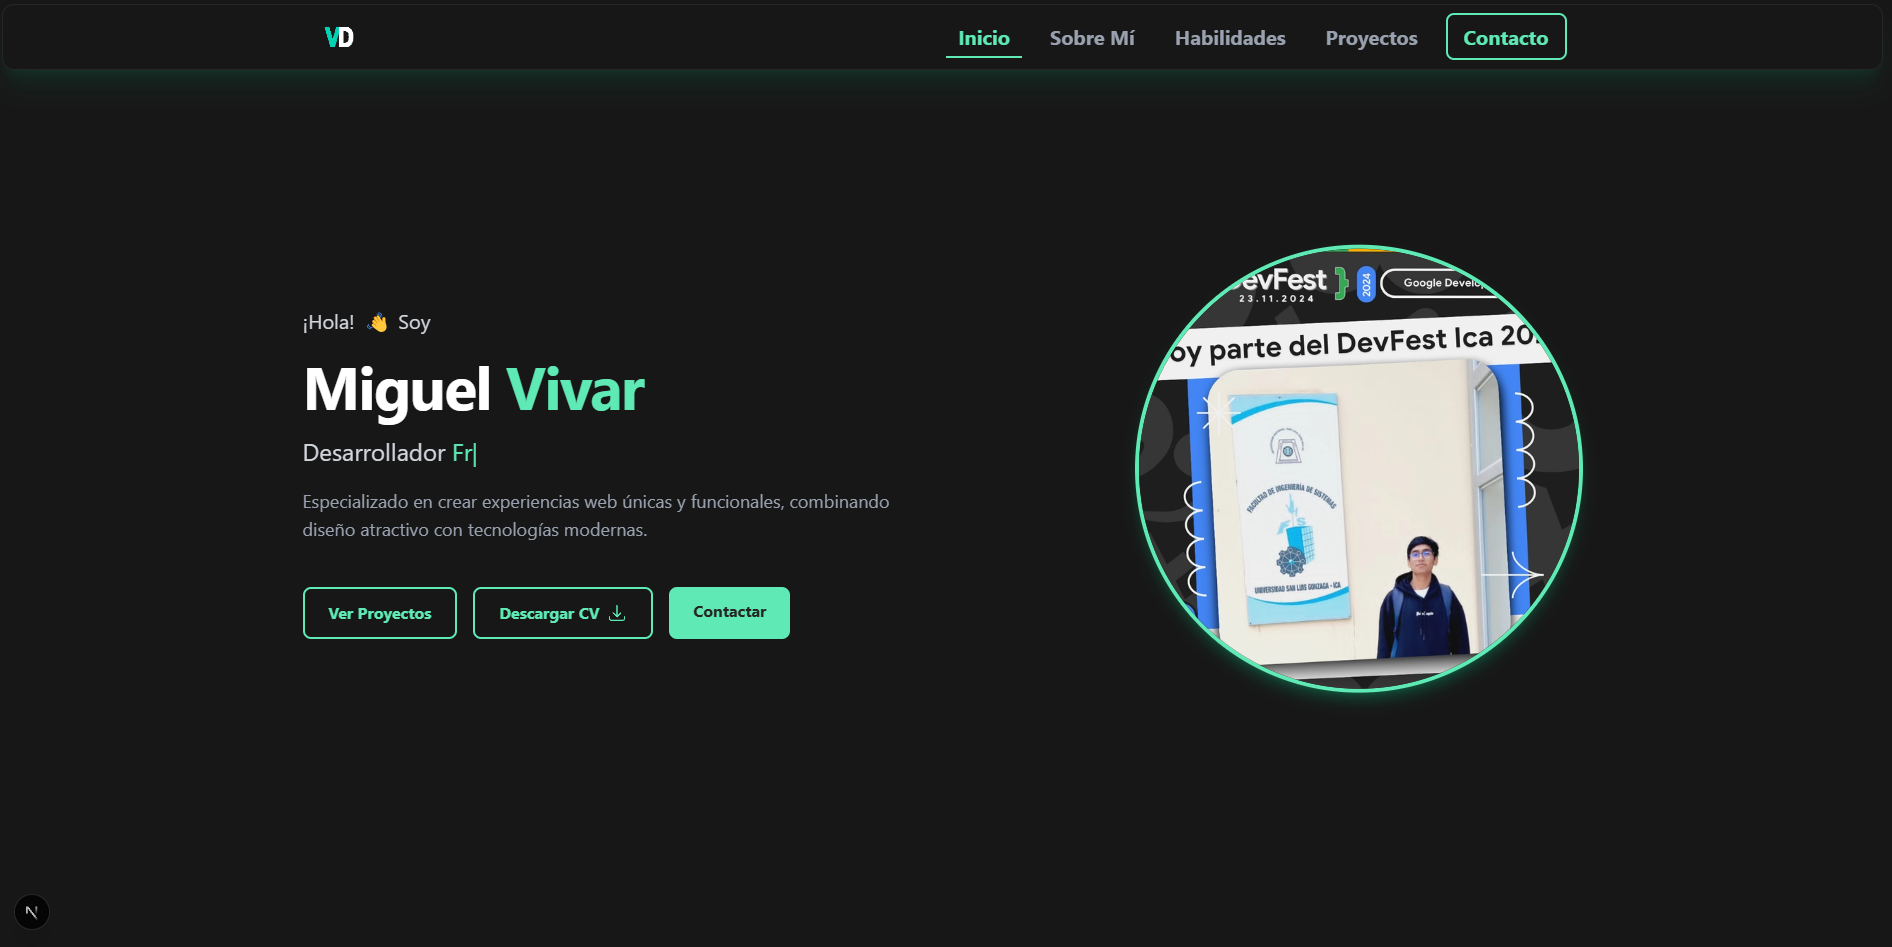
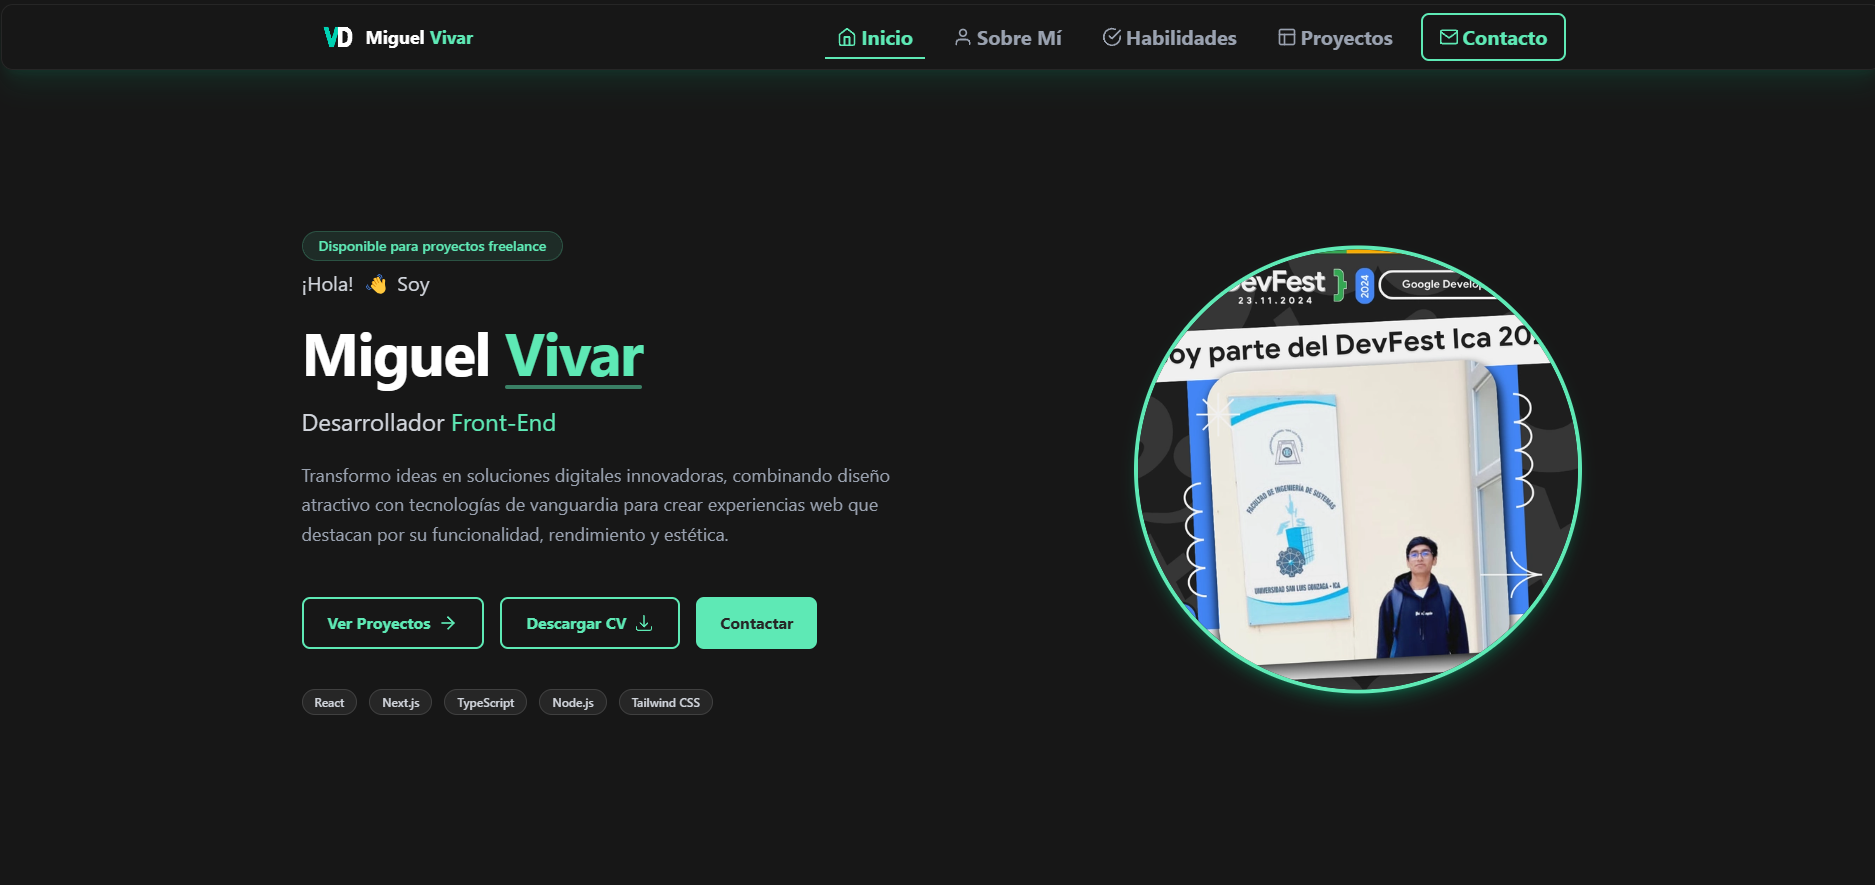
Mejora iconos

diff --git a/src/app/sobremi/page.tsx b/src/app/sobremi/page.tsx
@@ -453,7 +453,7 @@ export default function SobreMi() {
         <motion.div
           initial={{ opacity: 0, y: 30 }}
           animate={{ opacity: 1, y: 0 }}
-          transition={{ duration: 0.8, delay: 0.7 }}
+          transition={{ duration: 0.8, delay: 0.1 }}
           className="mb-16"
         >
           <h2 className="text-3xl font-bold text-white mb-8 text-center">
@@ -465,44 +465,15 @@ export default function SobreMi() {
                 key={index}
                 initial={{ opacity: 0, y: 20 }}
                 animate={{ opacity: 1, y: 0 }}
-                transition={{ duration: 0.5, delay: 0.7 + (index * 0.1) }}
+                transition={{ duration: 0.1, delay: 0.1 }}
                 whileHover={{ 
                   y: -10,
                   boxShadow: "0 20px 25px -5px rgba(16, 185, 129, 0.1), 0 10px 10px -5px rgba(16, 185, 129, 0.04)"
                 }}
-                className="bg-neutral-800 p-6 rounded-lg border-t-2 border-emerald-300 transition-all duration-300 flex flex-col items-center text-center"
+                className="bg-neutral-800 p-6 rounded-lg border-t-2 border-emerald-300 transition-all flex flex-col items-center text-center"
               >
                 <div className="w-16 h-16 bg-emerald-300/10 rounded-full flex items-center justify-center mb-4 text-emerald-300">
-                  {index === 0 && (
-                    <svg xmlns="http://www.w3.org/2000/svg" className="h-8 w-8" fill="none" viewBox="0 0 24 24" stroke="currentColor">
-                      <path strokeLinecap="round" strokeLinejoin="round" strokeWidth={2} d="M9 12l2 2 4-4m5.618-4.016A11.955 11.955 0 0112 2.944a11.955 11.955 0 01-8.618 3.04A12.02 12.02 0 003 9c0 5.591 3.824 10.29 9 11.622 5.176-1.332 9-6.03 9-11.622 0-1.042-.133-2.052-.382-3.016z" />
-                    </svg>
-                  )}
-                  {index === 1 && (
-                    <svg xmlns="http://www.w3.org/2000/svg" className="h-8 w-8" fill="none" viewBox="0 0 24 24" stroke="currentColor">
-                      <path strokeLinecap="round" strokeLinejoin="round" strokeWidth={2} d="M13 10V3L4 14h7v7l9-11h-7z" />
-                    </svg>
-                  )}
-                  {index === 2 && (
-                    <svg xmlns="http://www.w3.org/2000/svg" className="h-8 w-8" fill="none" viewBox="0 0 24 24" stroke="currentColor">
-                      <path strokeLinecap="round" strokeLinejoin="round" strokeWidth={2} d="M17 20h5v-2a3 3 0 00-5.356-1.857M17 20H7m10 0v-2c0-.656-.126-1.283-.356-1.857M7 20H2v-2a3 3 0 015.356-1.857M7 20v-2c0-.656.126-1.283.356-1.857m0 0a5.002 5.002 0 019.288 0M15 7a3 3 0 11-6 0 3 3 0 016 0zm6 3a2 2 0 11-4 0 2 2 0 014 0zM7 10a2 2 0 11-4 0 2 2 0 014 0z" />
-                    </svg>
-                  )}
-                  {index === 3 && (
-                    <svg xmlns="http://www.w3.org/2000/svg" className="h-8 w-8" fill="none" viewBox="0 0 24 24" stroke="currentColor">
-                      <path strokeLinecap="round" strokeLinejoin="round" strokeWidth={2} d="M9.663 17h4.673M12 3v1m6.364 1.636l-.707.707M21 12h-1M4 12H3m3.343-5.657l-.707-.707m2.828 9.9a5 5 0 117.072 0l-.548.547A3.374 3.374 0 0014 18.469V19a2 2 0 11-4 0v-.531c0-.895-.356-1.754-.988-2.386l-.548-.547z" />
-                    </svg>
-                  )}
-                  {index === 4 && (
-                    <svg xmlns="http://www.w3.org/2000/svg" className="h-8 w-8" fill="none" viewBox="0 0 24 24" stroke="currentColor">
-                      <path strokeLinecap="round" strokeLinejoin="round" strokeWidth={2} d="M12 8v4l3 3m6-3a9 9 0 11-18 0 9 9 0 0118 0z" />
-                    </svg>
-                  )}
-                  {index === 5 && (
-                    <svg xmlns="http://www.w3.org/2000/svg" className="h-8 w-8" fill="none" viewBox="0 0 24 24" stroke="currentColor">
-                      <path strokeLinecap="round" strokeLinejoin="round" strokeWidth={2} d="M14.828 14.828a4 4 0 01-5.656 0M9 10h.01M15 10h.01M21 12a9 9 0 11-18 0 9 9 0 0118 0z" />
-                    </svg>
-                  )}
+                  {valor.icono}
                 </div>
                 
                 <h3 className="text-xl font-bold text-white mb-3">{valor.titulo}</h3>

diff --git a/src/data/valores.tsx b/src/data/valores.tsx
@@ -3,26 +3,32 @@
 export const valores = [
   {
     titulo: "Innovación",
-    descripcion: "Busco constantemente nuevas formas de resolver problemas y mejorar procesos."
+    descripcion: "Busco constantemente nuevas formas de resolver problemas y mejorar procesos.",
+    icono: <svg xmlns="http://www.w3.org/2000/svg" className="h-8 w-8" fill="none" viewBox="0 0 24 24" stroke="currentColor"><path strokeLinecap="round" strokeLinejoin="round" strokeWidth={2} d="M9.663 17h4.673M12 3v1m6.364 1.636l-.707.707M21 12h-1M4 12H3m3.343-5.657l-.707-.707m2.828 9.9a5 5 0 117.072 0l-.548.547A3.374 3.374 0 0014 18.469V19a2 2 0 11-4 0v-.531c0-.895-.356-1.754-.988-2.386l-.548-.547z" /></svg>
   },
   {
     titulo: "Calidad",
-    descripcion: "Me comprometo a entregar código limpio, eficiente y bien documentado."
+    descripcion: "Me comprometo a entregar código limpio, eficiente y bien documentado.",
+    icono: <svg xmlns="http://www.w3.org/2000/svg" className="h-8 w-8" fill="none" viewBox="0 0 24 24" stroke="currentColor"><path strokeLinecap="round" strokeLinejoin="round" strokeWidth={2} d="M13 10V3L4 14h7v7l9-11h-7z" /></svg>
   },
   {
     titulo: "Aprendizaje Continuo",
-    descripcion: "Me mantengo actualizado con las últimas tecnologías y mejores prácticas."
+    descripcion: "Me mantengo actualizado con las últimas tecnologías y mejores prácticas.",
+    icono: <svg xmlns="http://www.w3.org/2000/svg" className="h-8 w-8" fill="none" viewBox="0 0 24 24" stroke="currentColor"><path strokeLinecap="round" strokeLinejoin="round" strokeWidth={2} d="M12 8v4l3 3m6-3a9 9 0 11-18 0 9 9 0 0118 0z" /></svg>
   },
   {
     titulo: "Colaboración",
-    descripcion: "Creo en el poder del trabajo en equipo para lograr resultados excepcionales."
+    descripcion: "Creo en el poder del trabajo en equipo para lograr resultados excepcionales.",
+    icono: <svg xmlns="http://www.w3.org/2000/svg" className="h-8 w-8" fill="none" viewBox="0 0 24 24" stroke="currentColor"><path strokeLinecap="round" strokeLinejoin="round" strokeWidth={2} d="M17 20h5v-2a3 3 0 00-5.356-1.857M17 20H7m10 0v-2c0-.656-.126-1.283-.356-1.857M7 20H2v-2a3 3 0 015.356-1.857M7 20v-2c0-.656.126-1.283.356-1.857m0 0a5.002 5.002 0 019.288 0M15 7a3 3 0 11-6 0 3 3 0 016 0zm6 3a2 2 0 11-4 0 2 2 0 014 0zM7 10a2 2 0 11-4 0 2 2 0 014 0z" /></svg>
   },
   {
     titulo: "Responsabilidad",
-    descripcion: "Cumplo con los plazos y asumo la responsabilidad de mi trabajo."
+    descripcion: "Cumplo con los plazos y asumo la responsabilidad de mi trabajo.",
+    icono: <svg xmlns="http://www.w3.org/2000/svg" className="h-8 w-8" fill="none" viewBox="0 0 24 24" stroke="currentColor"><path strokeLinecap="round" strokeLinejoin="round" strokeWidth={2} d="M9 12l2 2 4-4m5.618-4.016A11.955 11.955 0 0112 2.944a11.955 11.955 0 01-8.618 3.04A12.02 12.02 0 003 9c0 5.591 3.824 10.29 9 11.622 5.176-1.332 9-6.03 9-11.622 0-1.042-.133-2.052-.382-3.016z" /></svg>
   },
   {
     titulo: "Empatía",
-    descripcion: "Entiendo las necesidades de los usuarios y clientes para crear mejores soluciones."
+    descripcion: "Entiendo las necesidades de los usuarios y clientes para crear mejores soluciones.",
+    icono: <svg xmlns="http://www.w3.org/2000/svg" className="h-8 w-8" fill="none" viewBox="0 0 24 24" stroke="currentColor"><path strokeLinecap="round" strokeLinejoin="round" strokeWidth={2} d="M14.828 14.828a4 4 0 01-5.656 0M9 10h.01M15 10h.01M21 12a9 9 0 11-18 0 9 9 0 0118 0z" /></svg>
   }
 ];

diff --git a/src/data/habilidades.tsx b/src/data/habilidades.tsx
@@ -1,7 +1,7 @@
-import { FaHtml5, FaCss3, FaSass, FaBootstrap, FaReact, FaNodeJs, FaGithub, FaFigma, FaJava, FaPython, FaLaptopCode, FaServer, FaCode, FaTools, FaLayerGroup } from 'react-icons/fa';
+import { FaHtml5, FaCss3, FaSass, FaBootstrap, FaReact, FaNodeJs, FaGithub, FaFigma, FaJava, FaPython, FaLaptopCode, FaServer, FaCode, FaTools, FaLayerGroup, FaPhp } from 'react-icons/fa';
 import { TbBrandCSharp } from "react-icons/tb";
-import { SiJavascript, SiNextdotjs, SiTailwindcss, SiTypescript, SiFramer, SiExpress, SiMongodb, SiJest, SiBulma, SiVite, SiGit, SiCypress, SiPostman } from 'react-icons/si';
-import { BsKanban, BsSearch } from 'react-icons/bs';
+import { SiJavascript, SiNextdotjs, SiTailwindcss, SiTypescript, SiFramer, SiExpress, SiMongodb, SiJest, SiBulma, SiVite, SiGit, SiCypress, SiPostman, SiMysql, SiPostgresql } from 'react-icons/si';
+import { BsKanban, BsSearch, BsServer } from 'react-icons/bs';
 import { MdOutlineDesignServices, MdDevices } from 'react-icons/md';
 import { AiOutlineApartment } from 'react-icons/ai';
 
@@ -29,9 +29,17 @@ export const categoriasHabilidades = [
     icono: <FaServer className="text-emerald-300 text-2xl" />,
     habilidades: [
       { nombre: "Node.js", nivel: "Avanzado", icono: <FaNodeJs className="text-2xl" /> },
-      { nombre: "Express", nivel: "Avanzado", icono: <SiExpress className="text-2xl" /> },
+      { nombre: "Express", nivel: "Avanzado", icono: <SiExpress className="text-2xl" /> }
+    ],
+  },
+  {
+    titulo: "Bases de Datos",
+    icono: <AiOutlineApartment className="text-emerald-300 text-2xl" />,
+    habilidades: [
       { nombre: "MongoDB", nivel: "Intermedio", icono: <SiMongodb className="text-2xl" /> },
-      { nombre: "SQL", nivel: "Intermedio", icono: <AiOutlineApartment className="text-2xl" /> }
+      { nombre: "MySQL", nivel: "Intermedio", icono: <SiMysql className="text-2xl" /> },
+      { nombre: "SQLServer", nivel: "Intermedio", icono: <BsServer className="text-2xl" /> },
+      { nombre: "PostgreSQL", nivel: "Intermedio", icono: <SiPostgresql className="text-2xl" /> }
     ],
   },
   {
@@ -40,6 +48,7 @@ export const categoriasHabilidades = [
     habilidades: [
       { nombre: "Python", nivel: "Intermedio", icono: <FaPython className="text-2xl" /> },
       { nombre: "Java", nivel: "Intermedio", icono: <FaJava className="text-2xl" /> },
+      { nombre: "PHP", nivel: "Intermedio", icono: <FaPhp className="text-2xl" /> },
       { nombre: "C#", nivel: "Intermedio", icono: <TbBrandCSharp className="text-2xl" /> }
     ],
   },
@@ -50,9 +59,9 @@ export const categoriasHabilidades = [
       { nombre: "Git", nivel: "Avanzado", icono: <SiGit className="text-2xl" /> },
       { nombre: "GitHub", nivel: "Avanzado", icono: <FaGithub className="text-2xl" /> },
       { nombre: "Figma", nivel: "Intermedio", icono: <FaFigma className="text-2xl" /> },
-      { nombre: "Jest", nivel: "Intermedio", icono: <SiJest className="text-2xl" /> },
-      { nombre: "Cypress", nivel: "Intermedio", icono: <SiCypress className="text-2xl" /> },
-      { nombre: "Postman", nivel: "Intermedio", icono: <SiPostman className="text-2xl" /> }
+      { nombre: "Postman", nivel: "Intermedio", icono: <SiPostman className="text-2xl" /> },
+      { nombre: "Jest", nivel: "Básico", icono: <SiJest className="text-2xl" /> },
+      { nombre: "Cypress", nivel: "Básico", icono: <SiCypress className="text-2xl" /> }
     ],
   },
   {

diff --git a/src/data/proyectos.tsx b/src/data/proyectos.tsx
@@ -1,4 +1,4 @@
-import { FaJava, FaCode, FaLayerGroup, FaDesktop, FaServer } from 'react-icons/fa';
+import { FaJava, FaCode, FaLayerGroup, FaDesktop, FaServer, FaSearch } from 'react-icons/fa';
 import { SiReact, SiNextdotjs, SiTailwindcss, SiFramer, SiNodedotjs, SiExpress, SiMongodb, SiJsonwebtokens, SiPug, SiBootstrap, SiMysql, SiHeroku, SiChatbot, SiVite } from 'react-icons/si';
 
 export const proyectos = [
@@ -150,7 +150,7 @@ export const proyectos = [
 
 // Categorías para el filtro
 export const categorias = [
-  { id: 'todos', nombre: 'Todos', icono: <FaCode className="text-xl" /> },
+  { id: 'todos', nombre: 'Todos', icono: <FaSearch className="text-xl" /> },
   { id: 'Full-Stack', nombre: 'Full-Stack', icono: <FaLayerGroup className="text-xl" /> },
   { id: 'Front-End', nombre: 'Front-End', icono: <FaDesktop className="text-xl" /> },
   { id: 'Back-End', nombre: 'Back-End', icono: <FaServer className="text-xl" /> },

diff --git a/README.md b/README.md
@@ -1,86 +1,145 @@
 # Miguel Vivar - Portfolio Personal
 
+<div align="center">
+
 ![Portfolio Preview](/public/portafolio.png)
+
+[![Next.js](https://img.shields.io/badge/Next.js-15-black?style=for-the-badge&logo=next.js)](https://nextjs.org/)
+[![React](https://img.shields.io/badge/React-19-blue?style=for-the-badge&logo=react)](https://reactjs.org/)
+[![TypeScript](https://img.shields.io/badge/TypeScript-5-blue?style=for-the-badge&logo=typescript)](https://www.typescriptlang.org/)
+[![Tailwind CSS](https://img.shields.io/badge/Tailwind-4-38B2AC?style=for-the-badge&logo=tailwind-css)](https://tailwindcss.com/)
+[![Framer Motion](https://img.shields.io/badge/Framer_Motion-12-0055FF?style=for-the-badge&logo=framer)](https://www.framer.com/motion/)
+
+</div>
 
 ## 📋 Descripción
 
-Este es mi portafolio personal desarrollado con tecnologías modernas para mostrar mis proyectos, habilidades y experiencia como desarrollador web. El sitio cuenta con animaciones fluidas, diseño responsivo y una interfaz de usuario atractiva.
+Este es mi portafolio personal desarrollado con tecnologías modernas para mostrar mis proyectos, habilidades y experiencia como desarrollador web. El sitio cuenta con animaciones fluidas, diseño responsivo y una interfaz de usuario atractiva que refleja mi estilo y profesionalismo.
 
-## ✨ Características
+## 🌐 Demostración
 
-- **Diseño Moderno y Responsivo**: Adaptado a todo tipo de dispositivos
-- **Animaciones Fluidas**: Implementadas con Framer Motion
-- **Secciones Completas**: Proyectos, Habilidades, Sobre Mí y Contacto
-- **Modo Oscuro**: Interfaz elegante con tema oscuro y acentos en color esmeralda
-- **Formulario de Contacto**: Para recibir mensajes directamente
-- **Enlaces a Redes Sociales**: Conexión con mis perfiles profesionales
+Visita mi portfolio en vivo: [miguelvivar.github.io](https://miguelvivar.github.io)
+
+## ✨ Características Principales
+
+- **Diseño Moderno y Responsivo**: Adaptado a todo tipo de dispositivos, desde móviles hasta pantallas de escritorio
+- **Animaciones Fluidas**: Implementadas con Framer Motion para una experiencia de usuario dinámica
+- **Secciones Completas**: Presentación detallada de proyectos, habilidades técnicas, información personal y formulario de contacto
+- **Formulario de Contacto**: Permite a los visitantes enviar mensajes directamente desde la web
+- **Optimización SEO**: Estructura y metadatos optimizados para motores de búsqueda
+- **Rendimiento Optimizado**: Carga rápida y experiencia fluida gracias a Next.js
+- **Enlaces a Redes Sociales**: Conexión directa con mis perfiles profesionales
 
 ## 🛠 Tecnologías Utilizadas
 
+### Frontend
 - **Next.js 15**: Framework de React con renderizado del lado del servidor
 - **React 19**: Biblioteca para construir interfaces de usuario
-- **TypeScript**: Tipado estático para JavaScript
+- **TypeScript 5**: Tipado estático para JavaScript
 - **Tailwind CSS 4**: Framework de CSS utilitario
-- **Framer Motion**: Biblioteca para animaciones
-- **React Icons**: Iconos para la interfaz
+- **Framer Motion 12**: Biblioteca para animaciones avanzadas
+
+### Utilidades
+- **React Icons 5**: Amplia colección de iconos para la interfaz
+- **HeroIcons 2**: Iconos SVG de alta calidad
 
 ## 🚀 Instalación y Uso
+
+### Requisitos Previos
+- Node.js (versión 18 o superior)
+- npm o yarn
+
+### Pasos de Instalación
 
 1. **Clonar el repositorio**
 
 ```bash
-git clone https://github.com/MiguelVivar/portfolio.git
-cd portfolio
+git clone https://github.com/MiguelVivar/MiguelVivar.github.io.git
+cd MiguelVivar.github.io
 ```
 
 2. **Instalar dependencias**
 
 ```bash
 npm install
+# o
+yarn install
 ```
 
 3. **Ejecutar en modo desarrollo**
 
 ```bash
 npm run dev
+# o
+yarn dev
 ```
 
 4. **Abrir en el navegador**
 
-Visita [http://localhost:3000](http://localhost:3000) para ver la aplicación.
+Visita [http://localhost:3000](http://localhost:3000) para ver la aplicación en funcionamiento.
 
 ## 📁 Estructura del Proyecto
 
 ```
 /public          # Imágenes y archivos estáticos
+  /logo.svg      # Logo del sitio
+  /perfil.png    # Imagen de perfil
+  /portafolio.png # Captura del portfolio
+  /...           # Imágenes de proyectos
+
 /src
   /app           # Páginas de la aplicación (Next.js App Router)
     /contacto    # Página de contacto
     /habilidades # Página de habilidades
     /proyectos   # Página de proyectos
     /sobremi     # Página sobre mí
+    /layout.tsx  # Layout principal
+    /page.tsx    # Página de inicio
+
   /components    # Componentes reutilizables
+    /navbar.tsx  # Barra de navegación
+    /footer.tsx  # Pie de página
+    /...         # Otros componentes
+
+  /data          # Datos estructurados
+    /proyectos.tsx # Información de proyectos
+    /habilidades.tsx # Lista de habilidades
+    /...         # Otros datos
+
   /hooks         # Custom hooks
+    /useTypewriter.ts # Hook para efecto de escritura
 ```
 
 ## 📱 Secciones Principales
 
-- **Inicio**: Presentación y resumen profesional
-- **Sobre Mí**: Información personal y trayectoria
-- **Habilidades**: Tecnologías y herramientas que domino
-- **Proyectos**: Portafolio de trabajos destacados
-- **Contacto**: Formulario y enlaces a redes sociales
+- **Inicio**: Presentación personal y resumen profesional con animaciones atractivas
+- **Sobre Mí**: Información detallada sobre mi trayectoria, formación y valores profesionales
+- **Habilidades**: Tecnologías y herramientas que domino, organizadas por categorías y nivel de experiencia
+- **Proyectos**: Portafolio de trabajos destacados con descripciones, tecnologías utilizadas y enlaces
+- **Contacto**: Formulario de contacto y enlaces directos a redes sociales y correo electrónico
 
 ## 🔧 Scripts Disponibles
 
-- `npm run dev`: Inicia el servidor de desarrollo con Turbopack
-- `npm run build`: Construye la aplicación para producción
-- `npm run start`: Inicia la aplicación en modo producción
-- `npm run lint`: Ejecuta el linter para verificar el código
+- `npm run dev`: Inicia el servidor de desarrollo con Turbopack para un desarrollo más rápido
+- `npm run build`: Construye la aplicación para producción optimizando todos los recursos
+- `npm run start`: Inicia la aplicación en modo producción después de construirla
+- `npm run lint`: Ejecuta el linter para verificar y corregir problemas en el código
 
 ## 📞 Contacto
 
-- **Email**: miguelvivarfarfan@gmail.com
+- **Email**: [miguelvivarfarfan@gmail.com](mailto:miguelvivarfarfan@gmail.com)
 - **LinkedIn**: [Miguel Vivar Farfan](https://www.linkedin.com/in/miguel-vivar-farfan/)
 - **GitHub**: [@MiguelVivar](https://github.com/MiguelVivar)
 - **Instagram**: [@mvivarf](https://www.instagram.com/mvivarf/)
+
+## 📄 Licencia
+
+Este proyecto está bajo la Licencia MIT - ver el archivo [LICENSE](LICENSE) para más detalles.
+
+---
+
+<div align="center">
+
+⭐ **Desarrollado con ❤ por Miguel Vivar** ⭐
+
+</div>
